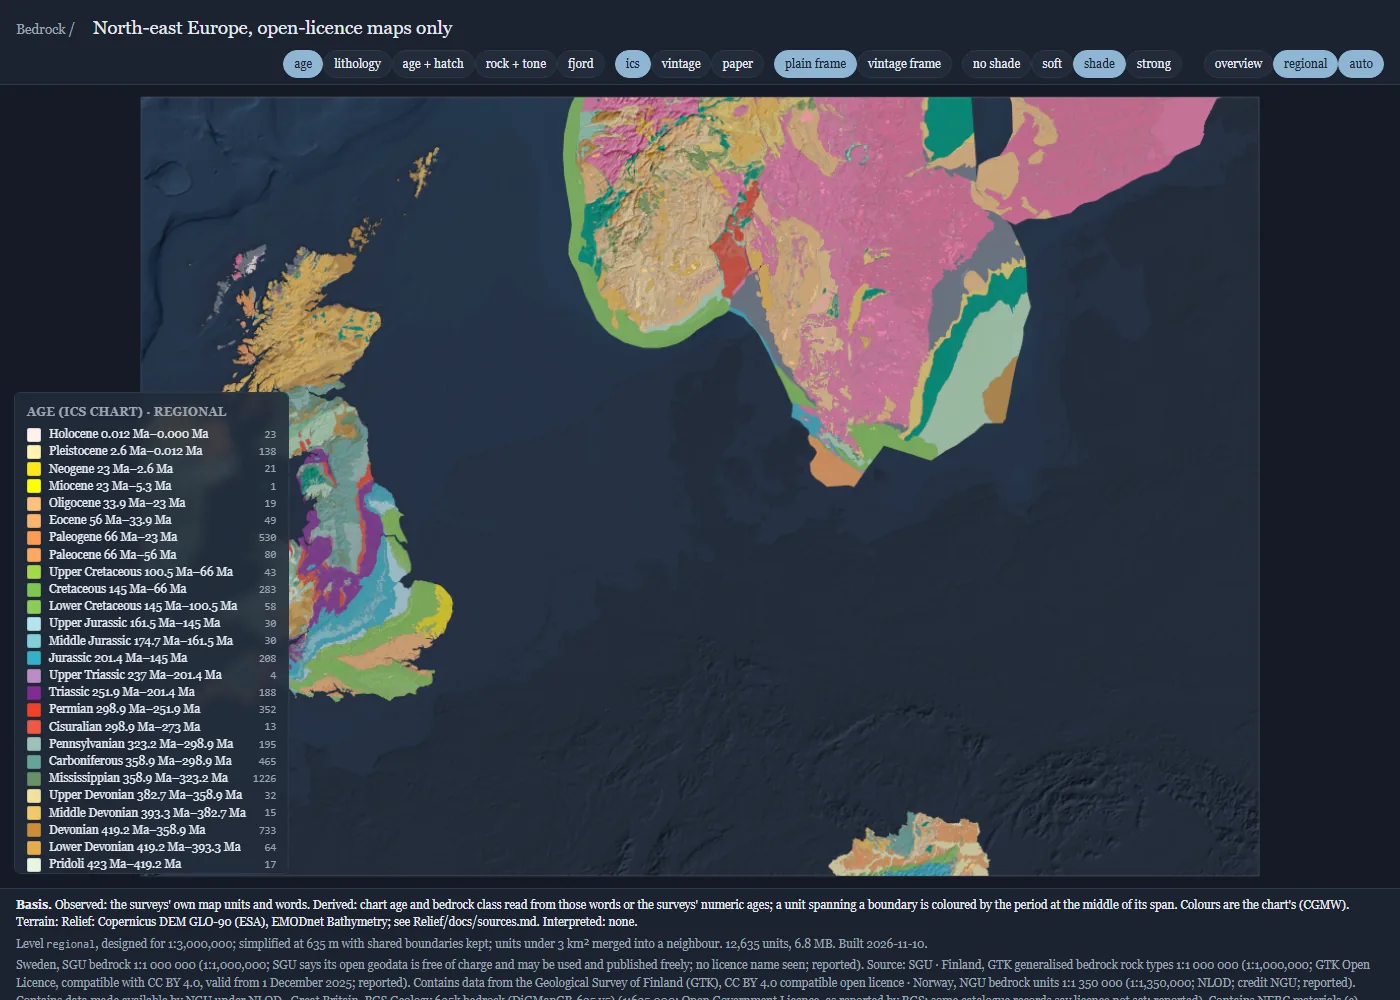
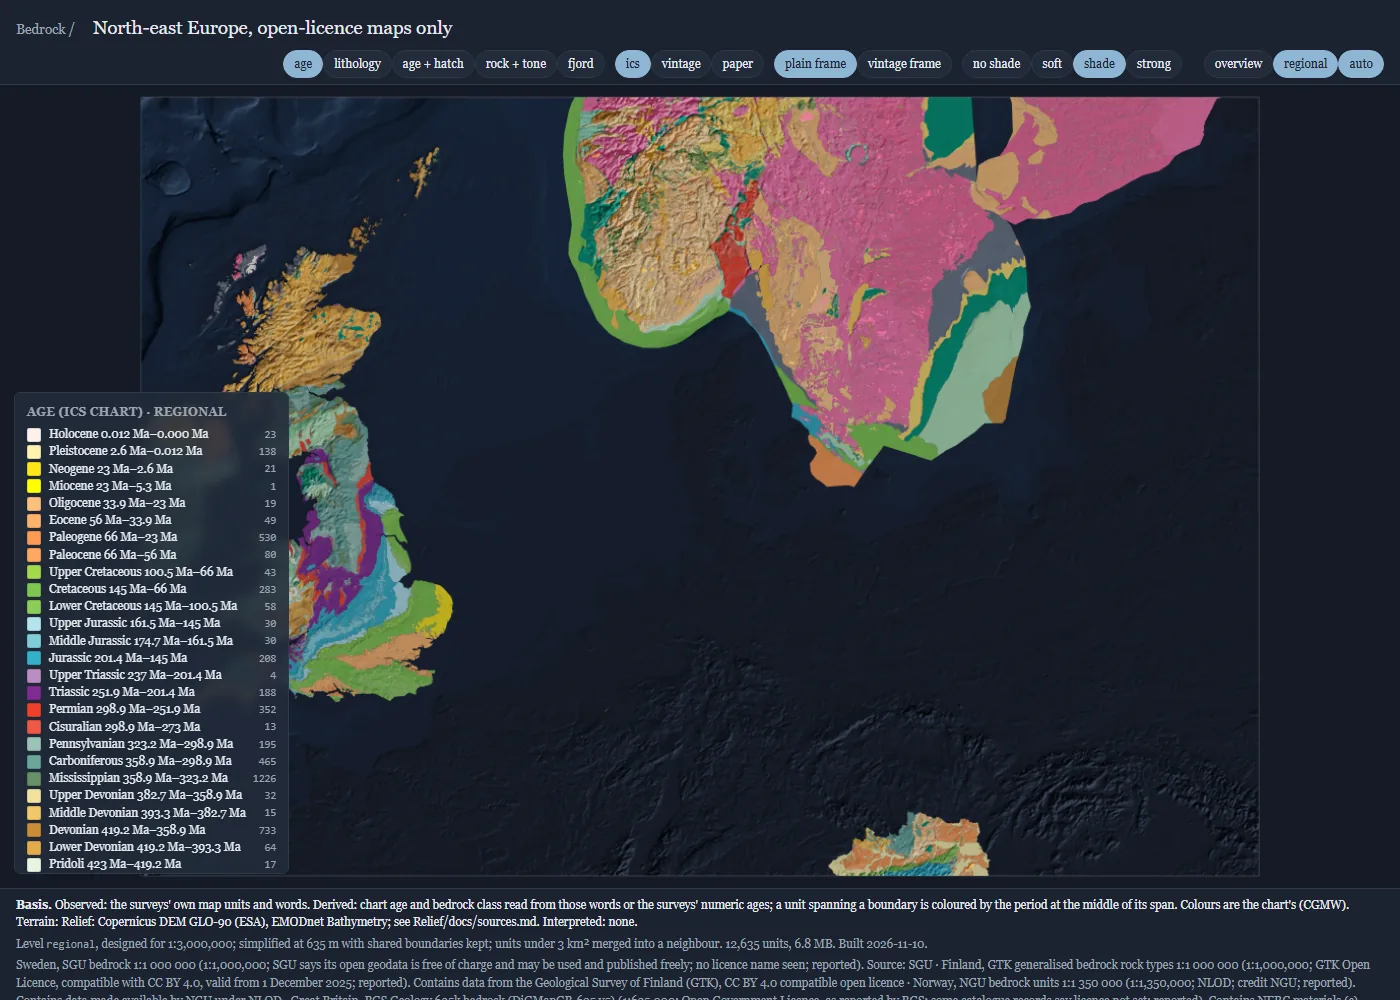
Viewers republished with the hillshade remap; screenshots refreshed
Relief's hillshade PNG is light (flat ground near 180 of 255) and soft-light is neutral at mid grey, so the terrain
hardly showed. Both viewers now move flat ground to mid grey and stretch the slopes before compositing.

Claude-Session: https://claude.ai/code/session_01XvpqcX8HdSbCdMgD8MUffi

diff --git a/site/s2s.js b/site/s2s.js
@@ -30,6 +30,16 @@ const systemMesh = topojson.mesh(topoS, topoS.objects.systems, (a, b) => a !== b
 const rivers = topojson.feature(topoR, topoR.objects.rivers).features;
 const hill = new Image(); hill.src = doc.relief.hillshade;
 await new Promise(res => { hill.onload = res; hill.onerror = res; });
+// Relief's hillshade PNG is light (flat ground sits near 180 of 255), and soft-light is neutral at mid grey, so drawn as it
+// comes it barely shows. Flat ground is moved to mid grey and the slopes stretched before the shade is composited.
+function toneHill(img, flat = 180, gain = 2.5) {
+  const c = document.createElement("canvas"); c.width = img.width; c.height = img.height;
+  const x = c.getContext("2d"); x.drawImage(img, 0, 0);
+  const d = x.getImageData(0, 0, c.width, c.height), p = d.data;
+  for (let i = 0; i < p.length; i += 4) { const v = Math.max(0, Math.min(255, 128 + (p[i] - flat) * gain)); p[i] = p[i + 1] = p[i + 2] = v; }
+  x.putImageData(d, 0, 0); return c;
+}
+const hillT = hill.width ? toneHill(hill) : null;
 for (const f of systems) f.bbox = d3.geoPath().bounds(f);
 
 const CL = ["#c8553d", "#3d6e9e", "#7a9a3b", "#b8860b", "#6b4c9a", "#2e8b8b", "#a0522d", "#5f5f5f"];
@@ -81,7 +91,7 @@ function render() {
   for (const f of shown) { const c = fillOf(f.properties); if (!c) continue; ctx.beginPath(); path(f); ctx.fillStyle = alphaFill(c, fa); ctx.fill(); }
   ctx.save(); ctx.setLineDash(ink === "strong" ? [5, 3] : [3, 3]); ctx.beginPath(); for (const f of shown) path(f); ctx.strokeStyle = inkEdge(); ctx.lineWidth = ink === "strong" ? 0.9 : 0.55; ctx.stroke(); ctx.restore();
   // hillshade multiplied over the fills so the terrain shows through
-  if (hill.width && shade > 0) { ctx.save(); ctx.globalCompositeOperation = "soft-light"; ctx.globalAlpha = Math.min(1, shade); ctx.drawImage(hill, px0, py0, px1 - px0, py1 - py0); if (shade > 1) { ctx.drawImage(hill, px0, py0, px1 - px0, py1 - py0); ctx.globalCompositeOperation = "multiply"; ctx.globalAlpha = (shade - 1) * 0.6; ctx.drawImage(hill, px0, py0, px1 - px0, py1 - py0); } ctx.restore(); }
+  if (hillT && shade > 0) { ctx.save(); ctx.globalCompositeOperation = "soft-light"; ctx.globalAlpha = Math.min(1, shade); ctx.drawImage(hillT, px0, py0, px1 - px0, py1 - py0); if (shade > 1) { ctx.drawImage(hillT, px0, py0, px1 - px0, py1 - py0); ctx.globalCompositeOperation = "multiply"; ctx.globalAlpha = (shade - 1) * 0.6; ctx.drawImage(hillT, px0, py0, px1 - px0, py1 - py0); } ctx.restore(); }
   // rivers
   ctx.lineCap = "round"; ctx.lineJoin = "round";
   const sysOf = new Map(shown.map(f => [f.properties.system, f.properties]));

diff --git a/site/geology.js b/site/geology.js
@@ -68,13 +68,22 @@ async function loadLevel(name) {
   }
   cache.set(name, out); return out;
 }
+// Relief's hillshade PNG is light (flat ground sits near 180 of 255), and soft-light is neutral at mid grey, so drawn as it
+// comes it barely shows. Flat ground is moved to mid grey and the slopes stretched before the shade is composited.
+function toneHill(img, flat = 180, gain = 2.5) {
+  const c = document.createElement("canvas"); c.width = img.width; c.height = img.height;
+  const x = c.getContext("2d"); x.drawImage(img, 0, 0);
+  const d = x.getImageData(0, 0, c.width, c.height), p = d.data;
+  for (let i = 0; i < p.length; i += 4) { const v = Math.max(0, Math.min(255, 128 + (p[i] - flat) * gain)); p[i] = p[i + 1] = p[i + 2] = v; }
+  x.putImageData(d, 0, 0); return c;
+}
 async function loadRelief(level) {
   if (!projected) return [null, null];
   const lv = doc.relief.hillshade[level] ? level : Object.keys(doc.relief.hillshade).slice(-1)[0];
   if (!hillCache.has(lv)) {
     const img = new Image(); img.src = doc.relief.hillshade[lv];
     await new Promise(res => { img.onload = res; img.onerror = res; });
-    hillCache.set(lv, img.width ? img : null);
+    hillCache.set(lv, img.width ? toneHill(img) : null);
     const b = await fetch(doc.relief.bands[lv]).then(r => r.ok ? r.json() : null).catch(() => null);
     bandCache.set(lv, b);
   }
